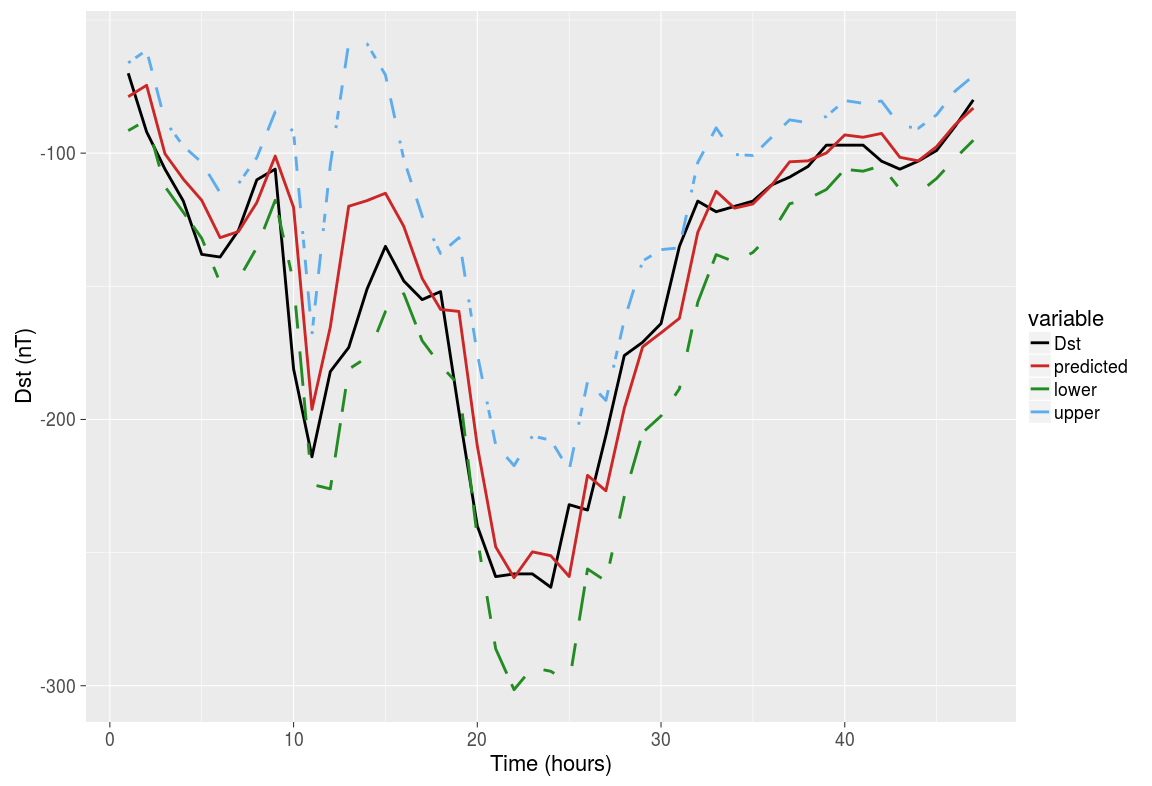
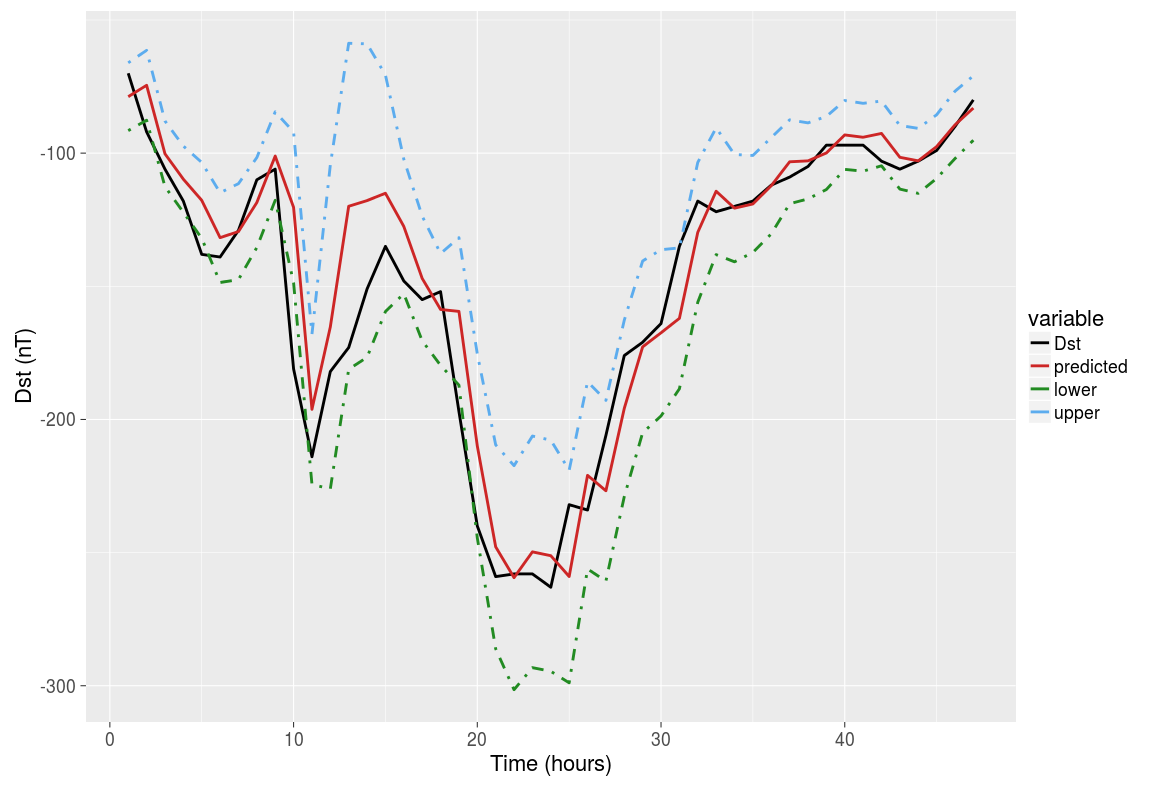
Updates from ShareLaTeX

diff --git a/swsc.tex b/swsc.tex
@@ -222,7 +222,7 @@ We start with a set of labeled data points $ {(\mathbf{x}_i, y_i): \forall i \in
 \end{eqnarray}
 
 
-\subsection{Inference and Predictions}
+\subsection{Inference and Predictions} \label{sec:inference}
 
 Our aim is to generate infer the function $f(\mathbf{x})$ from the noisy training data and generate predictions $f(\mathbf{x}^{*}_i)$ for a set of test points $ {\mathbf{x}^{*}_i : \forall i \in 1, \cdots, m} $. We start from equation \ref{eq:sto} and use it to construct the distribution of $f(\mathbf{x})$ over the training and test points, how ever since we have noisy measurements of $f$ over the training data, we add the noise variance $\sigma^2$ to the variance of $f$ as shown in \ref{eq:dist}.
 
@@ -450,7 +450,7 @@ Figure \ref{fig:timingErr} compares the time discrepancy of predicting the storm
 
 In figure \ref{fig:predictions} we show the OSA predictions generated by the TL, NM and GP-ARX models for one event from the list of storms in \citet{Ji2012}. This storm is interesting due to its strength ($Dst_{min} = -289 nT$) and the presence of two distinct peaks. In this particular event the GP-ARX model approximates the twin peaks as well as the onset and decay phases quite faithfully which is lacking in the NM and TL model predictions. The TL model recognises the presence of twin peaks but over estimates the second one as well as the decay phase, while the NM model is much delayed in the prediction of the initial peak and fails to approximate the time and intensity of the second peak.
 
-
+As noted in section \ref{sec:inference}, \emph{Gaussian Process} models generate probabilistic predictions instead of point predictions, giving the modeller the ability to specify error bars on the predictions. In figure \ref{fig:predictionswitherrorbar} OSA predictions along with lower and upper error bars generated by the GP-ARX model are depicted for the event used as a reference in figure \ref{fig:predictions}. The error bars are calculated at one standard deviation on either side of the mean prediction, using the posterior predictive distribution in equations \ref{eq:posteriormean} and \ref{eq:posteriorcov}.
 
 \begin{figure}
    \centering
@@ -458,6 +458,7 @@ In figure \ref{fig:predictions} we show the OSA predictions generated by the TL,
       \caption{OSA predictions with error bars $\pm 1$ standard deviation, generated by the GP-ARX model for the storm event $9^{th}$ November $2004$ 11:00 UTC - $11^{th}$ November $2004$ 09:00 UTC}
          \label{fig:predictionswitherrorbar}
 \end{figure}
+
 
 
 \begin{comment}
